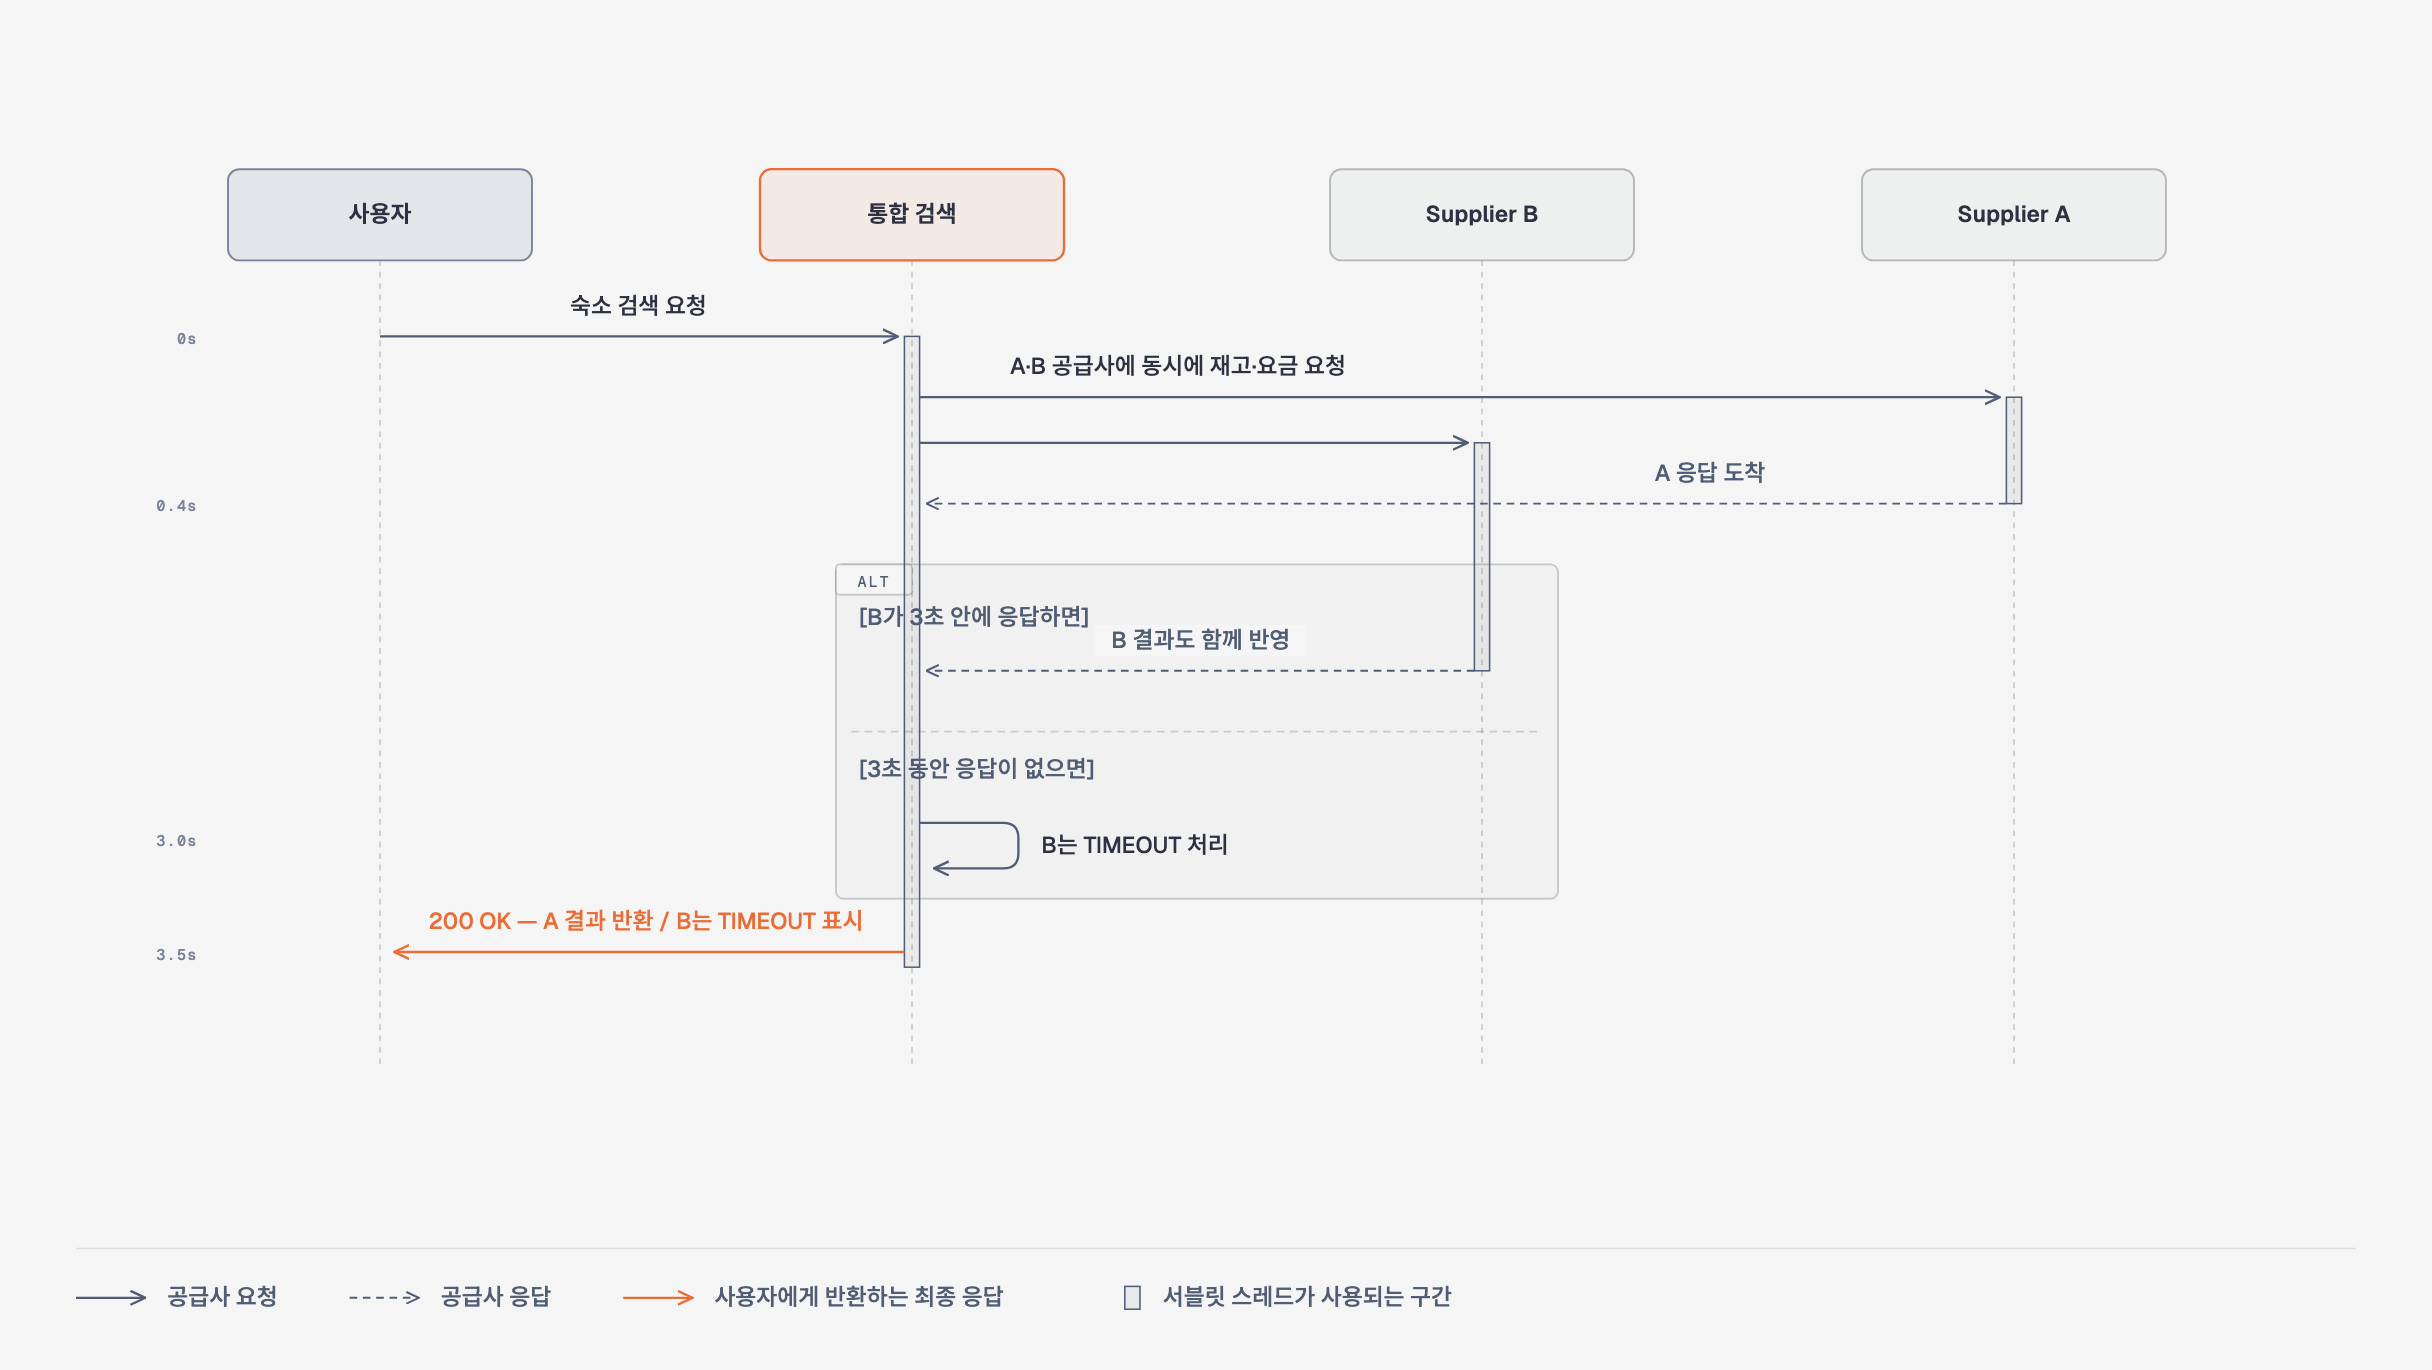
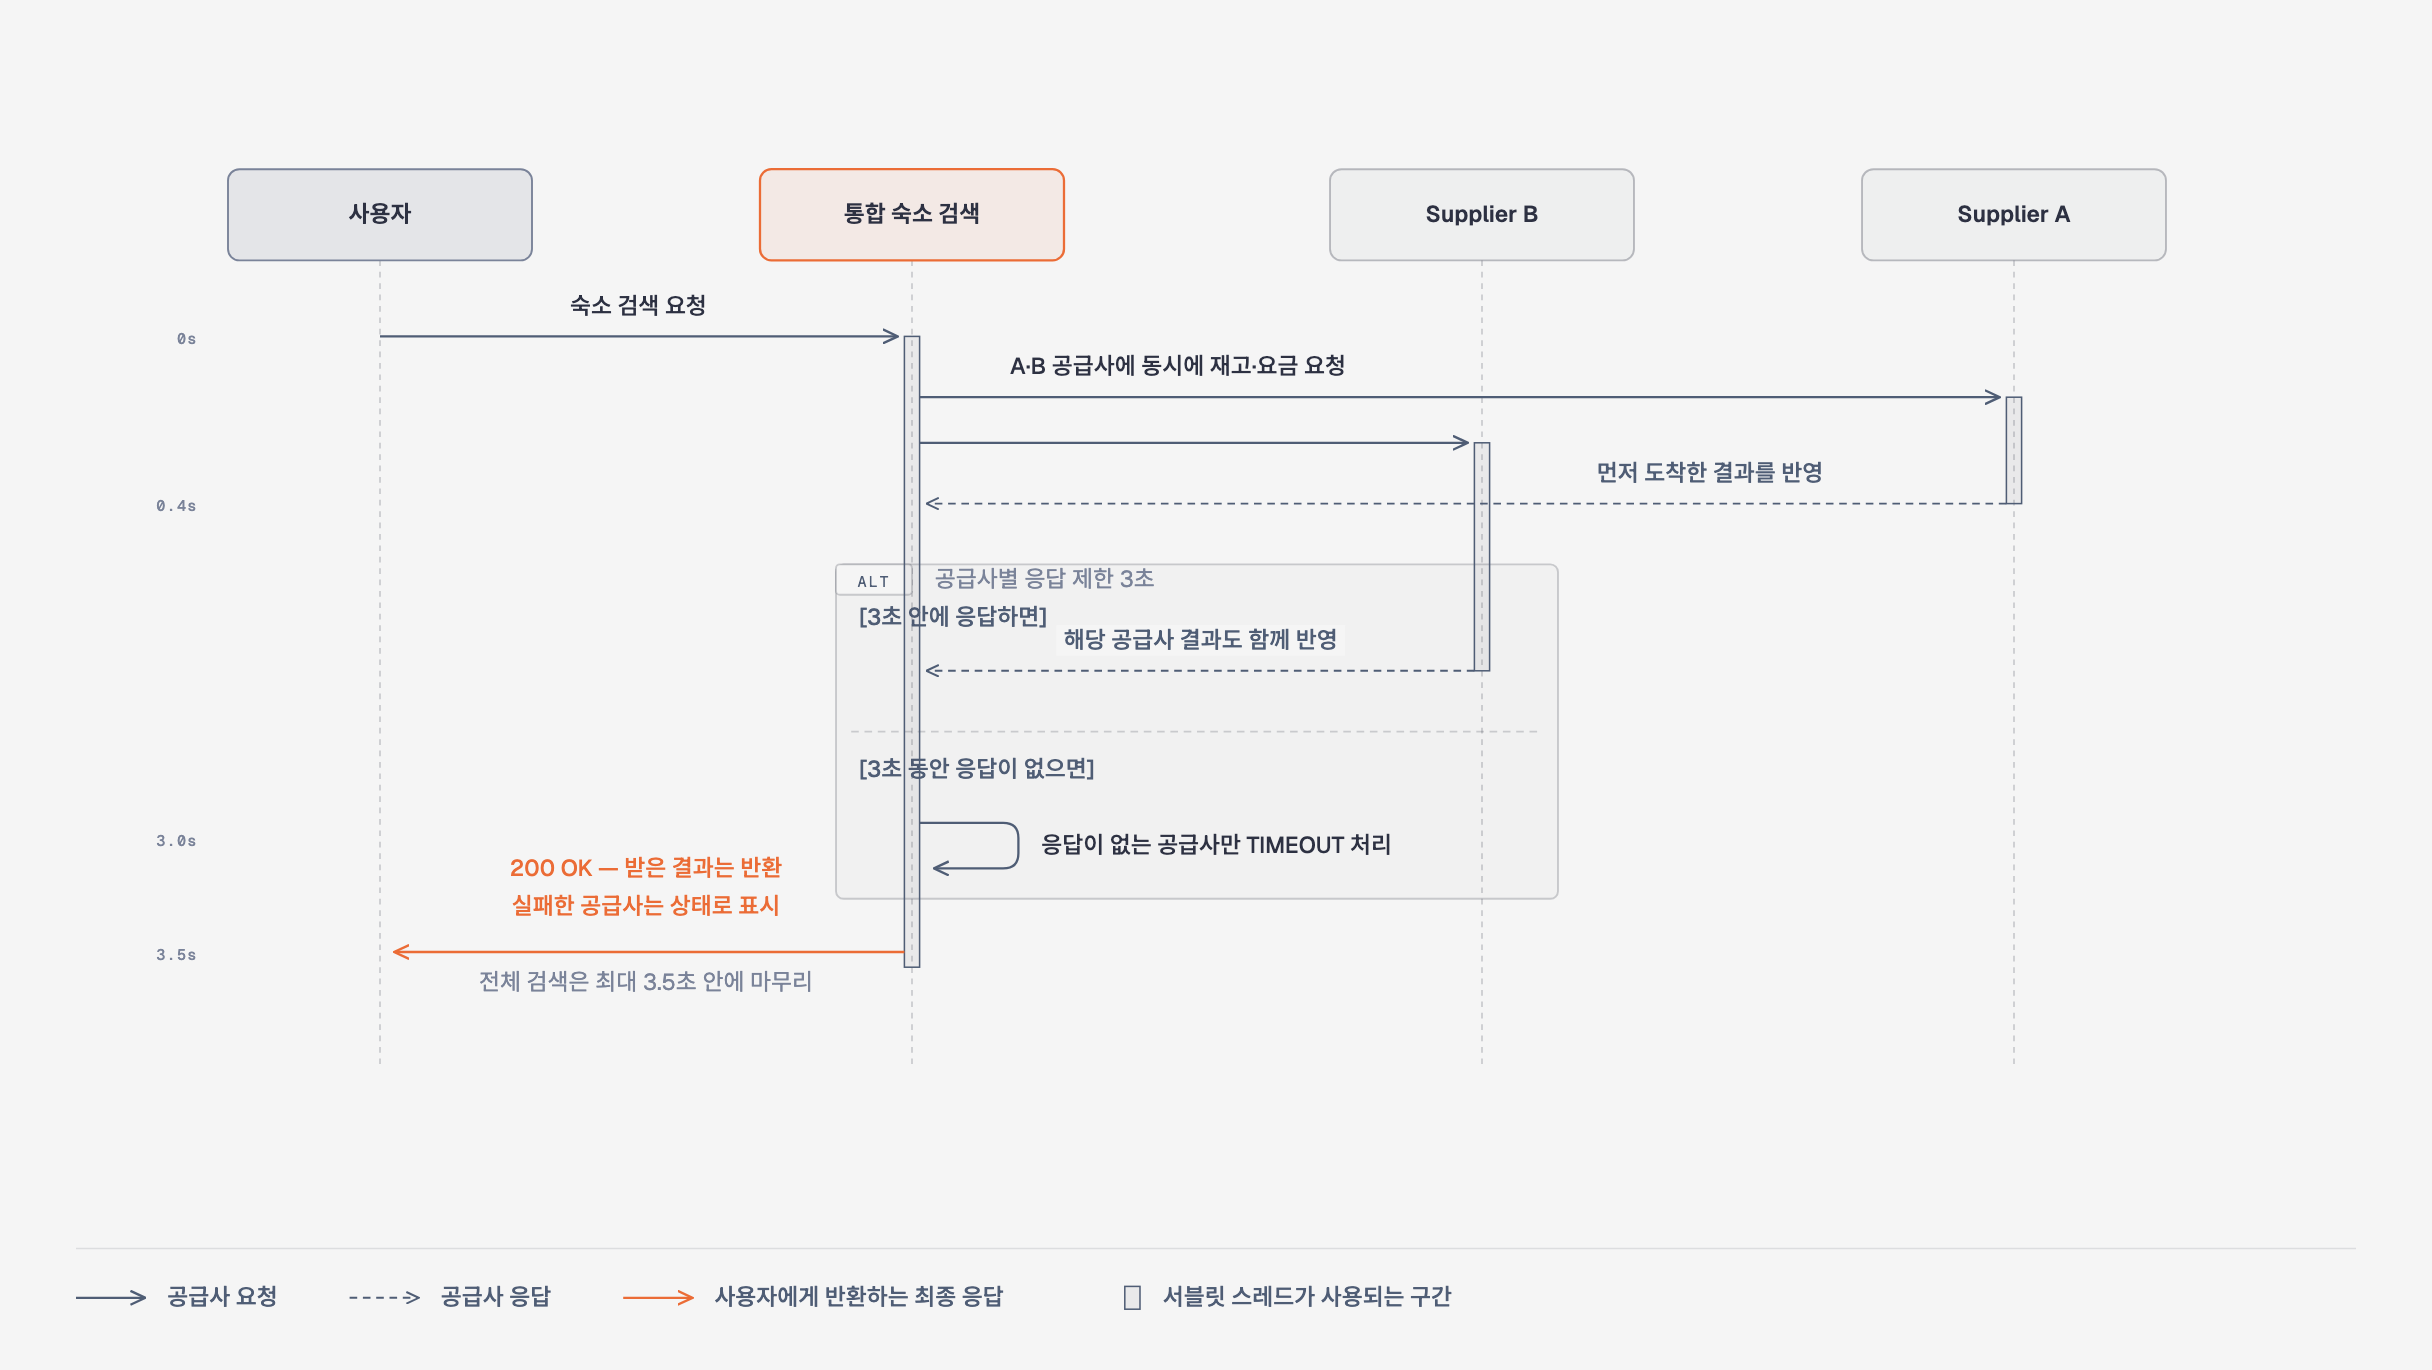
docs: 도해에 공급사별 3초와 전체 3.5초를 구분해 표시
3초만 적어두면 API 전체 제한으로 읽힌다. 먼저 도착한 결과를 반영한다는
문구도 take(예산)을 쓴 이유 그대로 바꿨다.

diff --git a/README.md b/README.md
@@ -69,10 +69,11 @@ curl "http://localhost:8080/api/v1/stays/search?checkIn=2026-09-01&checkOut=2026
 
 ## 🧨 장애를 직접 내보기
 
-이 시스템의 핵심은 정상 경로가 아니라 실패 경로입니다. 시간으로 보면 이렇게 동작합니다 —
-B가 침묵하면 3초에 끊고, 어느 쪽이든 3.5초 안에 200으로 응답합니다:
+이 시스템의 핵심은 정상 경로가 아니라 실패 경로입니다. 한 공급사가 실패하거나 늦어도
+이미 받은 다른 공급사의 결과는 버리지 않습니다 — 공급사별 응답 제한은 3초, 전체 검색은
+최대 3.5초 안에 200으로 마무리됩니다:
 
-![장애 격리 타임라인 — 두 공급사를 동시에 조회하고, B가 3초 안에 응답하지 않으면 B는 TIMEOUT으로 처리한 채 3.5초 안에 200으로 응답합니다](docs/images/failure-timeline.png)
+![장애 격리 타임라인 — 두 공급사를 동시에 조회하고, 3초 안에 응답하지 않는 공급사만 TIMEOUT으로 처리한 채 3.5초 안에 200으로 응답합니다](docs/images/failure-timeline.png)
 
 흉내 서버에 고장 스위치가 있으니 직접 꺼뜨려 보면서 확인하는 것이 가장 빠릅니다.
 
